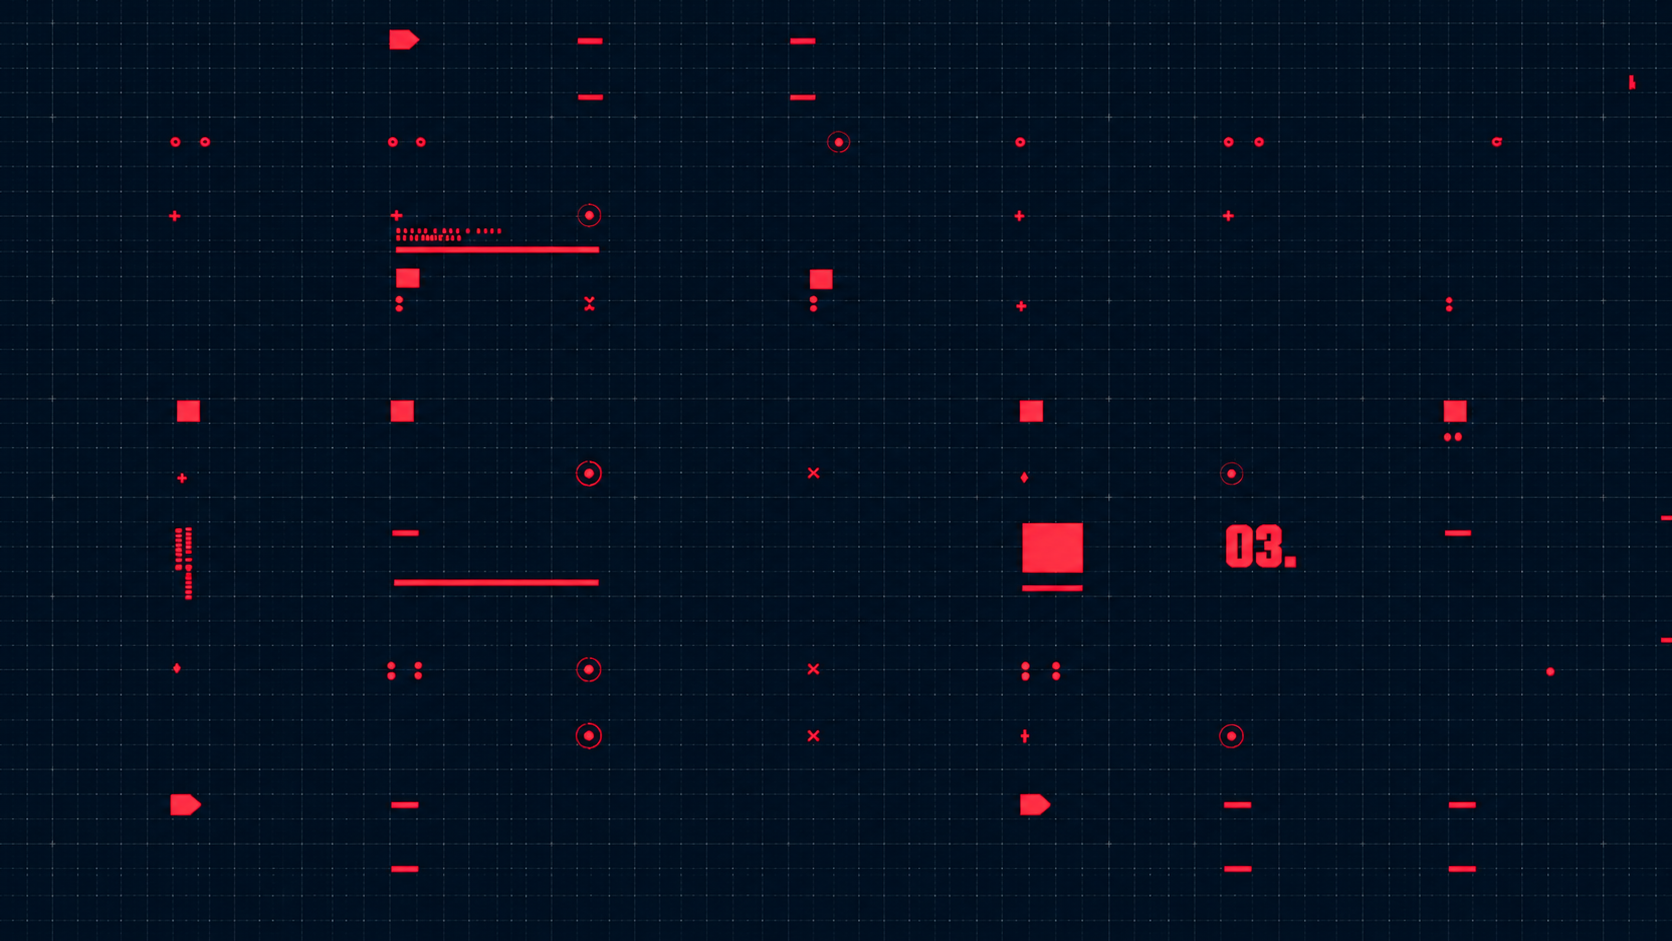
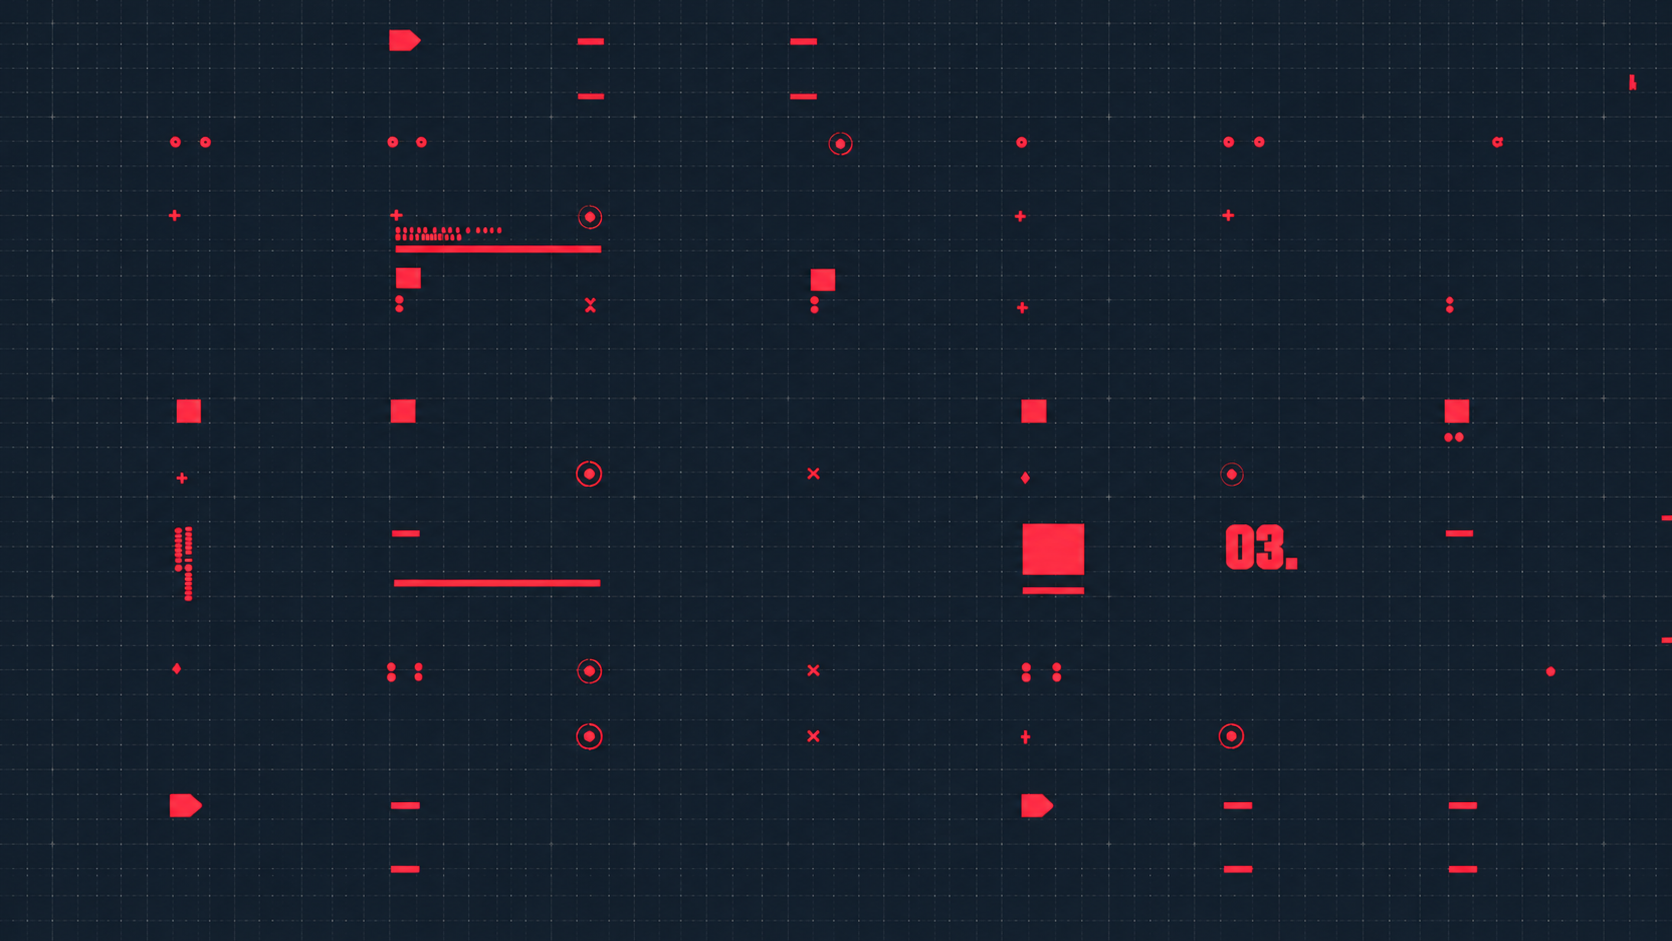
feat: update button hover styles and adjust background for agents section

diff --git a/src/views/HomeView.vue b/src/views/HomeView.vue
@@ -241,8 +241,8 @@ const teamName = computed(() => team.data.value?.name || 'Kelompok 3')
 }
 
 .hero__link:hover {
-  color: var(--red-dark);
-  border-color: var(--red-dark);
+  color: var(--red);
+  border-color: var(--red);
 }
 
 .hero__strip {
@@ -367,7 +367,7 @@ const teamName = computed(() => team.data.value?.name || 'Kelompok 3')
 /* ---------- Agents ---------- */
 .agents-section {
   padding-top: 0;
-  background: linear-gradient(180deg, var(--navy) 0%, #2b1820 100%);
+  background: var(--navy);
 }
 
 .agents {

diff --git a/src/assets/main.css b/src/assets/main.css
@@ -209,7 +209,7 @@ ul {
 }
 
 .btn--lights:hover {
-  --btn-bg: var(--red-deep);
+  --btn-bg: var(--red);
   --btn-fg: var(--white);
 }
 
